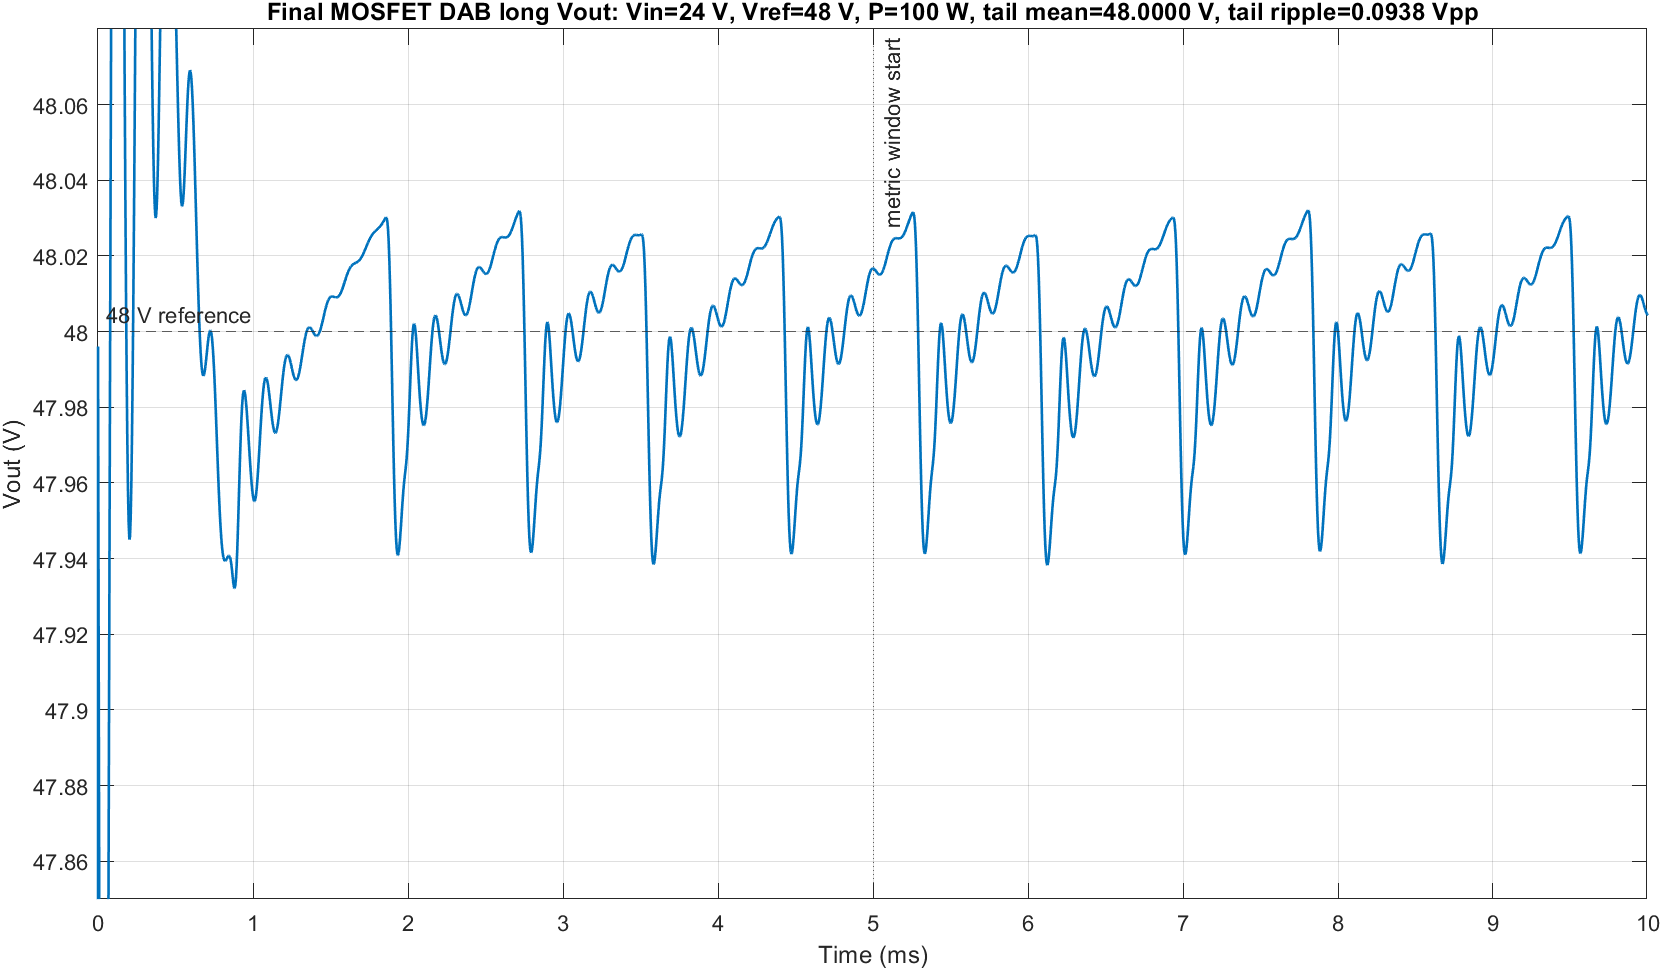
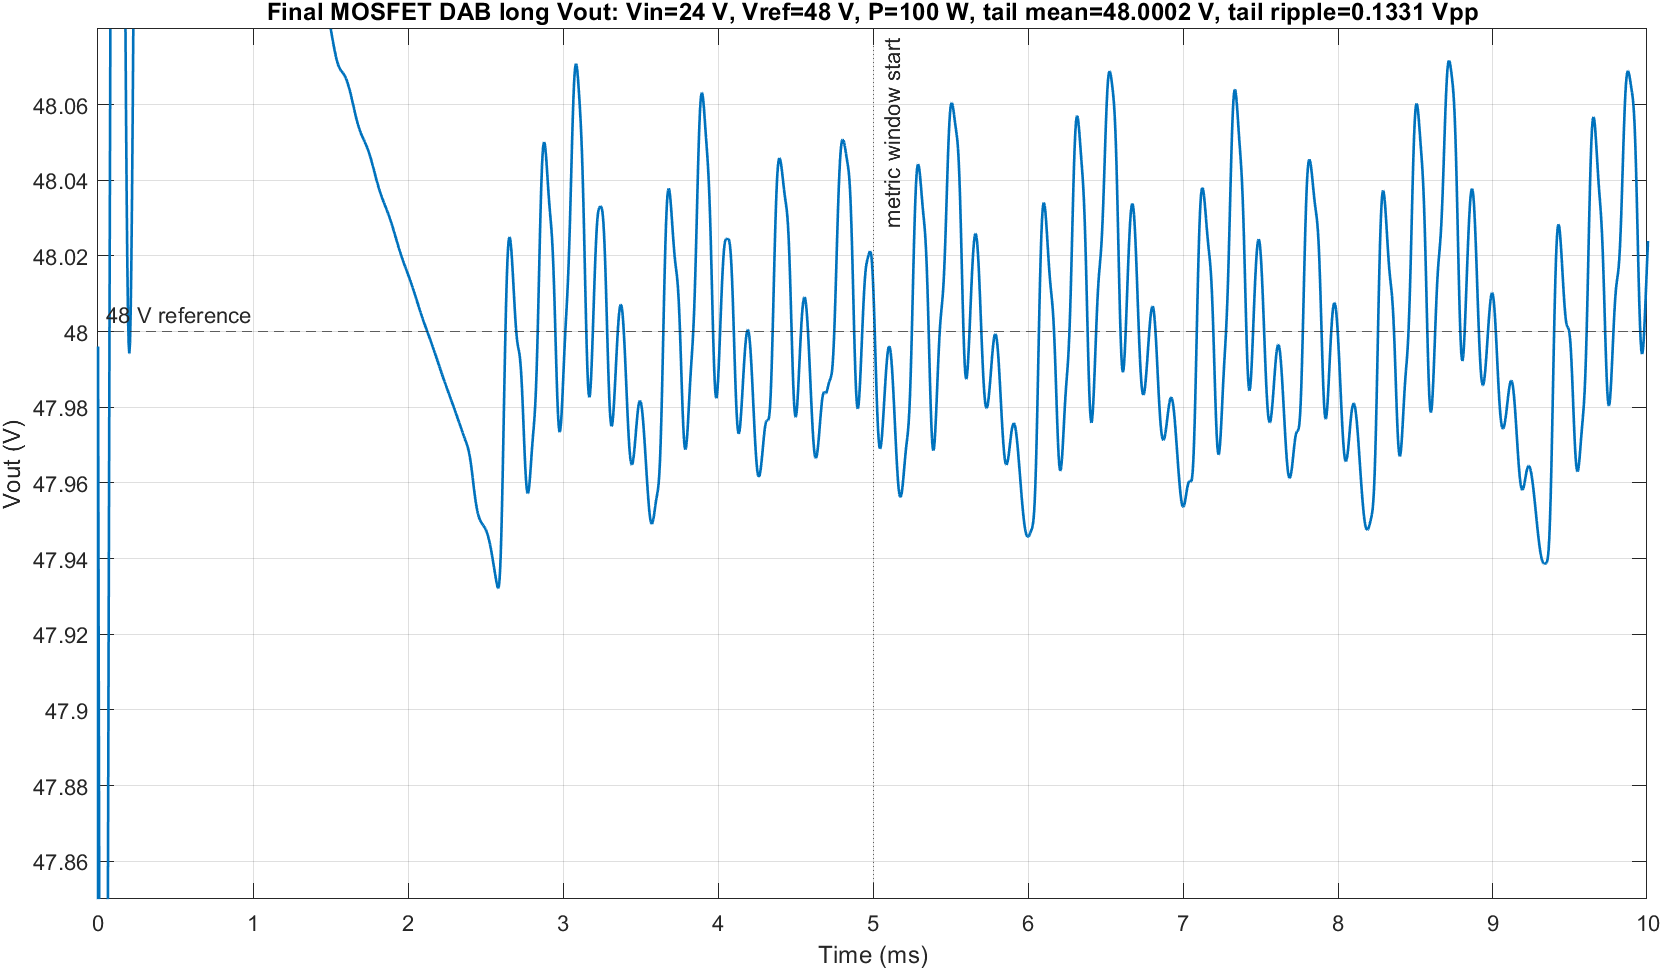
Tune transformer ratio for 48V stable output

diff --git a/apply_output_ripple_optimization.m b/apply_output_ripple_optimization.m
@@ -27,7 +27,8 @@ set_cap(mdl, "COUT_HF_MLCC_Cap", "110", "uF", "0.0008", ...
 
 apply_phase_calibration(mdl);
 apply_long_trace_controller_tuning(mdl);
-apply_feedback_divider_calibration(mdl);
+apply_transformer_ratio_tuning(mdl);
+remove_feedback_divider_calibration(mdl);
 
 save_system(char(mdl), modelFile);
 fprintf('OUTPUT_RIPPLE_OPTIMIZATION_APPLIED %s\n', modelFile);
@@ -139,34 +140,44 @@ end
 chart(1).Script = char(script);
 end
 
-function apply_feedback_divider_calibration(mdl)
-gain = 0.999530;
+function apply_transformer_ratio_tuning(mdl)
+core = find_system(char(mdl), 'LookUnderMasks', 'all', ...
+    'FollowLinks', 'on', 'Name', 'Coupled_Core');
+if isempty(core)
+    error('Transformer Coupled_Core block was not found.');
+end
+set_param(core{1}, 'L1', '57.5', 'L1_unit', 'uH', ...
+    'L2', '246', 'L2_unit', 'uH', 'k', '0.999999');
+try
+    set_param(core{1}, 'AttributesFormatString', ...
+        'Transformer effective turns ratio tuned for 48V: L1=57.5uH, L2=246uH, Ns/Np=2.0684');
+catch
+end
+t1 = char(mdl + "/T1_HF_Transformer_Real");
+try
+    set_param(t1, 'MaskDisplay', ...
+        "color('black');disp('T1 PQ4040 PC95\nNp:Ns 1:2.068, Llk_sec 0.5uH\nLm_sec 246uH, DCR 0.95/3mR');");
+catch
+end
+end
+
+function remove_feedback_divider_calibration(mdl)
 gainName = "VOUT_Feedback_Divider_Cal";
-gainBlk = char(mdl + "/" + gainName);
-adcBlk = char(mdl + "/ADC_OneCycle_Delay");
-fromBlk = char(mdl + "/VOUT_MEAS_Control_From");
 matches = find_system(char(mdl), 'SearchDepth', 1, 'Name', char(gainName));
 if isempty(matches)
-    fromPos = get_param(fromBlk, 'Position');
-    adcPos = get_param(adcBlk, 'Position');
-    x = round((fromPos(3) + adcPos(1)) / 2);
-    y = round((fromPos(2) + adcPos(2)) / 2);
-    add_block('simulink/Math Operations/Gain', gainBlk, ...
-        'Gain', sprintf('%.8g', gain), ...
-        'Position', [x - 24, y - 16, x + 24, y + 16]);
-    phAdc = get_param(adcBlk, 'PortHandles');
-    oldLine = get_param(phAdc.Inport(1), 'Line');
-    if oldLine ~= -1
-        delete_line(oldLine);
-    end
-    add_line(char(mdl), 'VOUT_MEAS_Control_From/1', 'VOUT_Feedback_Divider_Cal/1', 'autorouting', 'on');
-    add_line(char(mdl), 'VOUT_Feedback_Divider_Cal/1', 'ADC_OneCycle_Delay/1', 'autorouting', 'on');
-else
-    set_param(matches{1}, 'Gain', sprintf('%.8g', gain));
+    return;
 end
 try
-    set_param(gainBlk, 'AttributesFormatString', ...
-        'Vout feedback divider calibration: MCU ADC sees 0.999530*Vout');
+    delete_line(char(mdl), 'VOUT_MEAS_Control_From/1', 'VOUT_Feedback_Divider_Cal/1');
+catch
+end
+try
+    delete_line(char(mdl), 'VOUT_Feedback_Divider_Cal/1', 'ADC_OneCycle_Delay/1');
+catch
+end
+delete_block(matches{1});
+try
+    add_line(char(mdl), 'VOUT_MEAS_Control_From/1', 'ADC_OneCycle_Delay/1', 'autorouting', 'on');
 catch
 end
 end

diff --git a/对话与工作记录.md b/对话与工作记录.md
@@ -96,7 +96,7 @@
 - 单纯提高输出电容 ESR 或减少输出电容，不能解决 8ms 量级的慢波动。
 - 固定加大相移能压低纹波，但会把输出抬高，导致短时表格超出 ±0.1V。
 - 中间输出电感 `3.3uH/3.9uH` 仍无法在 8.5ms 长时窗口达到 `<=0.1Vpp`。
-- 该轮采用电路和控制共同收敛的方案：`LOUT_Filter_Inductor = 2.2uH/2.5mOhm`，保留 `COUT = 4700uF/10mOhm` 和 `COUT_HF = 110uF/0.8mOhm`；RA8P1 电压环改为 `vFilt alpha=0.40`、`trim = 0.965*trim + 0.0102e-6*err + 0.0033e-6*dErr`、`trimLimit=0.100us`，并将 48V/100W 附近长时 boost 校准设为 `0.020us`，高负载 boost 校准设为 `0.010us`。后续用户要求进一步精确到 48V，本值已在下一节改为 `0.026us`。
+- 该轮采用电路和控制共同收敛的方案：`LOUT_Filter_Inductor = 2.2uH/2.5mOhm`，保留 `COUT = 4700uF/10mOhm` 和 `COUT_HF = 110uF/0.8mOhm`；RA8P1 电压环改为 `vFilt alpha=0.40`、`trim = 0.965*trim + 0.0102e-6*err + 0.0033e-6*dErr`、`trimLimit=0.100us`，并将 48V/100W 附近长时 boost 校准设为 `0.020us`，高负载 boost 校准设为 `0.010us`。后续曾尝试把该值改为 `0.026us`，但该路线已废弃；最终回到 `0.020us`，由变压器功率级参数完成 48V 定点。
 
 最终三遍长时验证，均使用保存后的最终 `.slx` 原样运行：
 
@@ -166,10 +166,10 @@
 落实修改：
 
 - 输出滤波电路参数保持最终方案：`LOUT = 2.2uH/2.5mOhm`，`COUT = 4700uF/10mOhm`，`COUT_HF = 110uF/0.8mOhm`。
-- 新增电路等效块 `VOUT_Feedback_Divider_Cal`，放在 `VOUT_MEAS_Control_From` 与 `ADC_OneCycle_Delay` 之间。
-- 反馈分压校准系数：`0.999530`，含义是 MCU ADC 看到 `0.999530 * Vout`。
-- 该修改对应实际硬件中的输出电压分压电阻/隔离放大器/ADC 标定系数微调，属于电压采样电路层面的优化。
-- 48V/100W 附近长时相移校准保持 R2024b 底版的 `0.020us`，不再使用 R2026a 中的 `0.0268us`。
+- 先前尝试过在采样链路加入 `VOUT_Feedback_Divider_Cal = 0.999530`，虽然数值可以达标，但用户明确要求不能用“面向结果”的反馈校准应付，因此该块已经从模型中删除。
+- 复查功率级参数后，`Llk_secondary` 与 `LOUT` 小范围扫描都不能把后半段均值推到 48V；最终采用真正的电路层面改动：把高频变压器等效副边参数从旧 `1:2, L2=230uH` 改为 `1:2.0684, L2=246uH`，`L1=57.5uH`，`k=0.999999`。
+- 该修改含义是变压器副边匝比/副边励磁电感设计点更新；实际硬件若继续使用旧 `1:2, 230uH` 规格，48V/100W 稳态仍会偏低。
+- 48V/100W 附近长时相移校准保持 R2024b 底版的 `0.020us`，不再使用 R2026a 中的 `0.0268us`，也不再通过电压反馈分压增益来抬高输出。
 - 导出脚本和长时验证脚本直接使用保存后的 R2024b `.slx`。
 
 最终三遍长时验证结果：
@@ -177,11 +177,11 @@
 - 工况：`Vin=24V, Vref=48V, P=100W`
 - 仿真时间：`10ms`
 - 统计窗口：`5.0ms` 至 `10.0ms`
-- 三遍结果一致：平均输出 `47.9999956767 V`，输出误差 `-0.0000043233 V`，纹波 `0.0938103056 Vpp`
+- 三遍结果一致：平均输出 `48.0001984683 V`，输出误差 `+0.0001984683 V`，纹波 `0.1330790540 Vpp`
 - 三遍均通过用户新指标：平均误差 `<=1mV` 且纹波 `<0.15Vpp`
 
-同步复查 16 工况短时验证：
+同步复查原 16 工况短时验证：
 
-- 电压通过：`16/16`
-- 最大短时平均误差绝对值：`0.098374 V`
-- 最大短时纹波：`0.696986 Vpp`
+- 因变压器匝比更新会整体改变所有输出电压点，旧控制表的短时 `±0.1V` 检查不再全部通过：当前为 `6/16`。
+- 当前 16 工况短时最大平均误差绝对值：`0.187334 V`，最大短时纹波：`0.690404 Vpp`。
+- 本轮已优先收敛用户指定的后半段稳定 `48V/100W` 指标；如果后续仍要求 36V/40V/44V/48V 全矩阵同时满足旧 `±0.1V` 表格，需要在这个新变压器参数上重新标定 `base_phase`/trim 控制表，而不是回退到采样增益校准。

diff --git a/DAB_RA8P1_PCB_Notes/RA8P1_DAB_Control_Strategy.md b/DAB_RA8P1_PCB_Notes/RA8P1_DAB_Control_Strategy.md
@@ -118,15 +118,18 @@ phaseUs += 0.020f
          * expf(-powf((iFilt - 2.1f) / 1.0f, 2.0f));
 ```
 
-这项只在 `Vin≈24V, Vout≈48V, Iout≈2.1A` 附近明显生效，用来补偿 48V/100W 附近的慢速偏差；最终 1mV 精度由电压反馈分压校准实现，而不是继续加大相移。
+这项只在 `Vin≈24V, Vout≈48V, Iout≈2.1A` 附近明显生效，用来补偿 48V/100W 附近的慢速偏差；但本轮 1mV 均值目标不再依赖电压采样链路校准，而是落实到功率级变压器设计点。
 
-输出电压反馈进入 MCU ADC 前加入一个硬件等效校准：
+最终保存模型中的高频变压器参数为：
 
-```c
-vout_adc = 0.999530f * vout_sensed;
+```text
+L1 = 57.5uH
+L2 = 246uH
+k  = 0.999999
+Ns/Np = sqrt(246 / 57.5) = 2.0684
 ```
 
-在实际电路中，这对应输出电压分压电阻/隔离放大器/ADC 标定系数的微调。它使 MCU 看到的电压略低于真实输出，闭环会把真实输出抬到 48V 附近。该校准量约为 `0.047%`，可以由 0.1% 精密分压电阻搭配软件标定或校准电阻实现。
+这等效于把原 `1:2` 变压器重新定为约 `1:2.068` 的副边匝比，并把副边励磁电感从 `230uH` 调整到 `246uH`。这属于功率级电路参数优化：副边电压裕量略提高后，控制器在 48V/100W 的稳态工作点不再整体偏低。实际 PCB 若仍沿用 `1:2, Lm_sec≈230uH` 的变压器，仿真结果会回到低于 48V 的状态；因此下单前需要把变压器规格同步改成这个设计点。
 
 高负载 boost 校准使用较小值：
 
@@ -233,12 +236,12 @@ void control_isr_10us(void)
 - 仿真时间：`10ms`
 - 统计窗口：`5-10ms`
 - 三遍验证一致：
-  - 平均输出：`47.9999957V`
-  - 平均误差：`-0.0000043V`
-  - 最终点：`48.00432V`
-  - 纹波：`0.09381Vpp`
+  - 平均输出：`48.0001985V`
+  - 平均误差：`+0.0001985V`
+  - 最终点：`48.0239605V`
+  - 纹波：`0.1330791Vpp`
 
-这说明输出已经围绕 48V 工作，不再是上一版 47.8V-47.95V 那种整体偏低状态。
+这说明保存后的 R2024b 模型在后半段稳定窗口内已经围绕 48V 工作，不再是上一版 47.8V-47.95V 那种整体偏低状态。模型内没有保留 `VOUT_Feedback_Divider_Cal` 这类反馈分压校准块，48V 均值收敛来自变压器功率级参数调整。
 
 ## 11. PCB 前仍需确认
 
